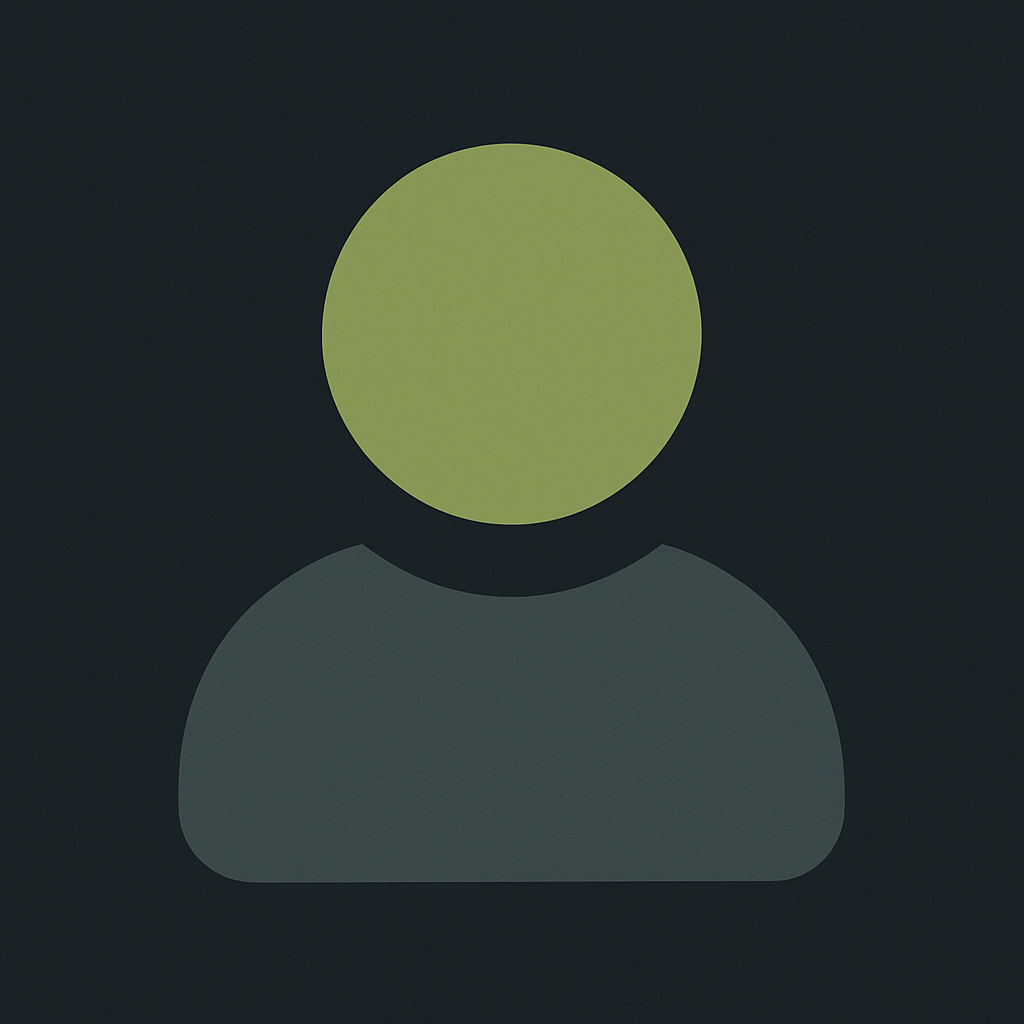
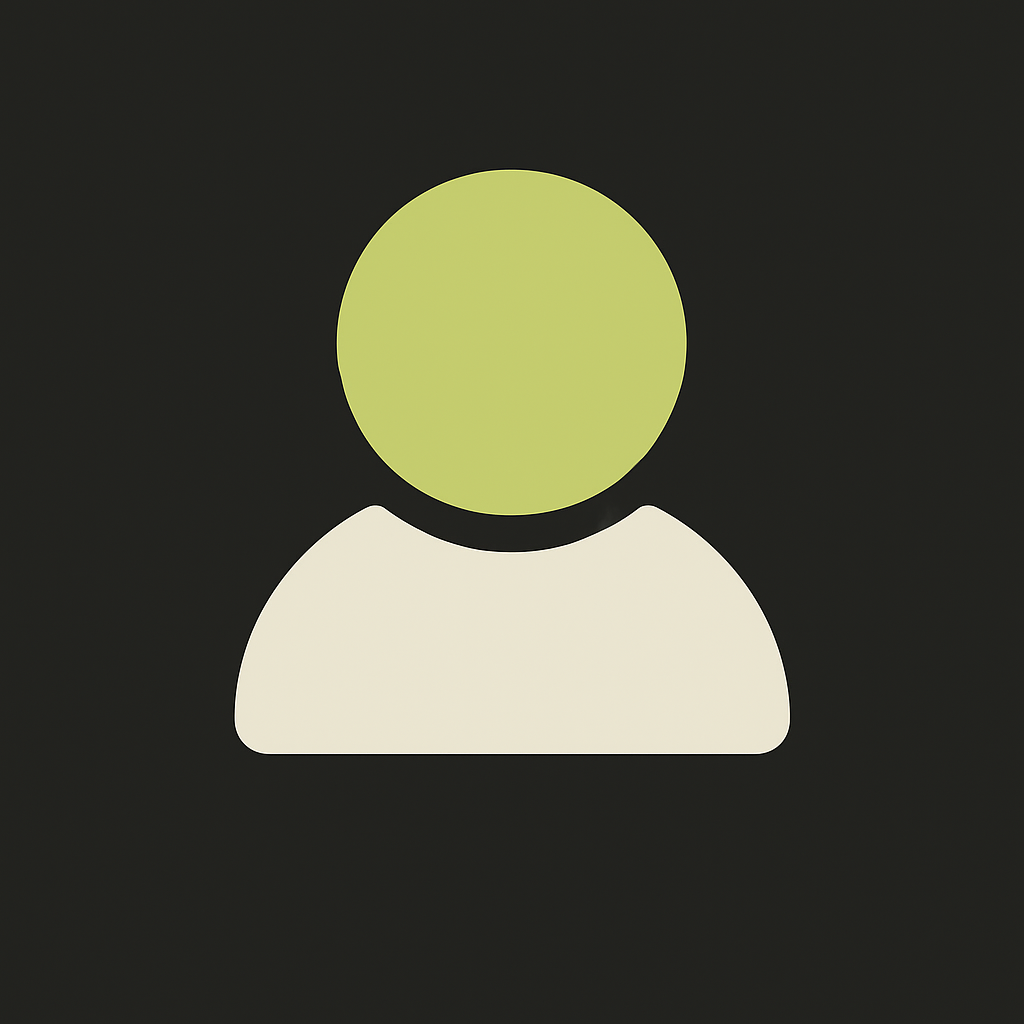
add a new profile picture

diff --git a/backend/handlers/chat/handler_chat_helper.go b/backend/handlers/chat/handler_chat_helper.go
@@ -203,6 +203,7 @@ func (server *ChatServer) BroadCastOnlineStatus() {
 		}
 	}
 
+	// send the online user to each of your connections
 	for _, connections := range server.client {
 		for _, conn := range connections {
 			conn.Online <- &OnlineUsers{
